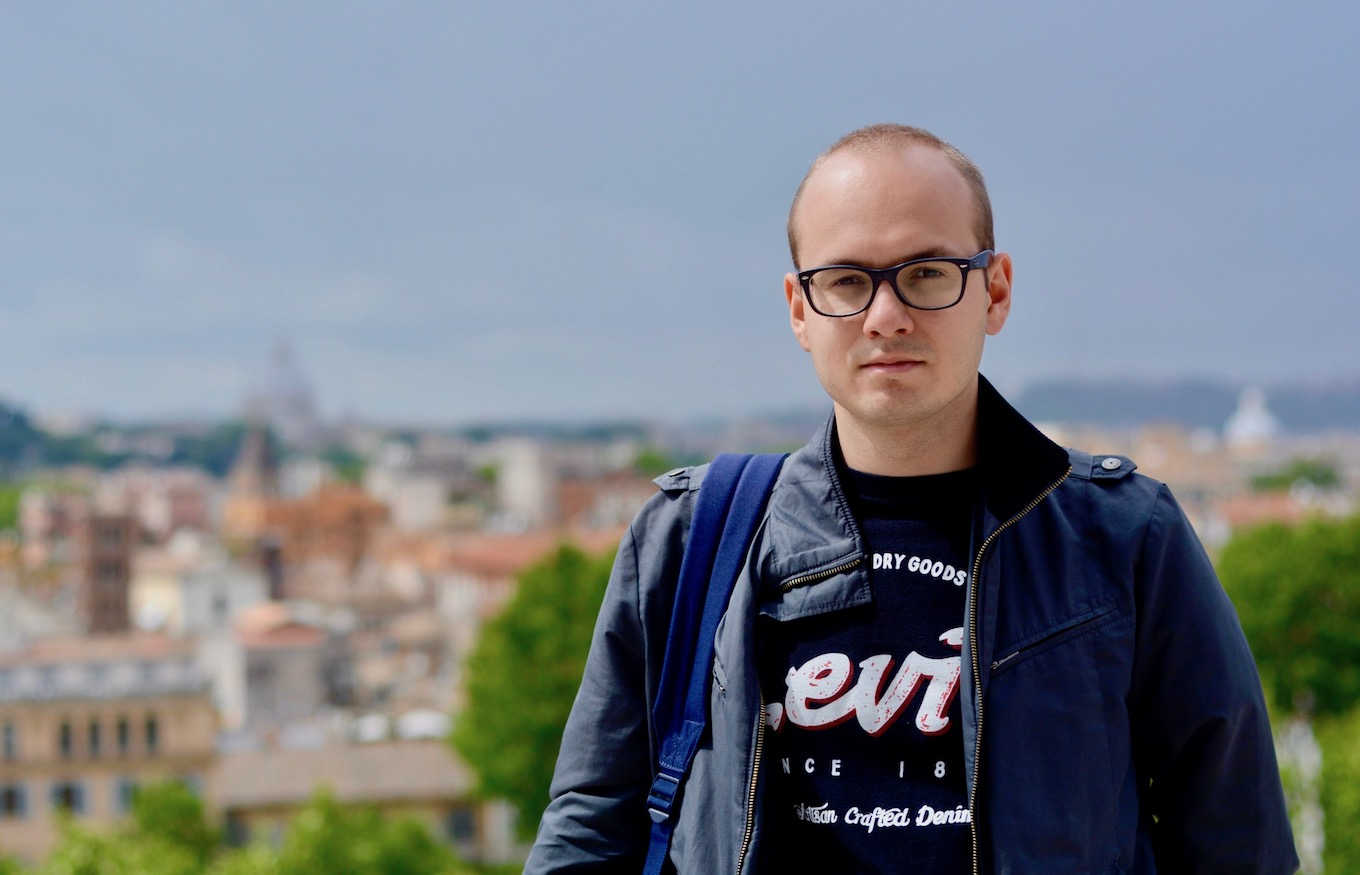
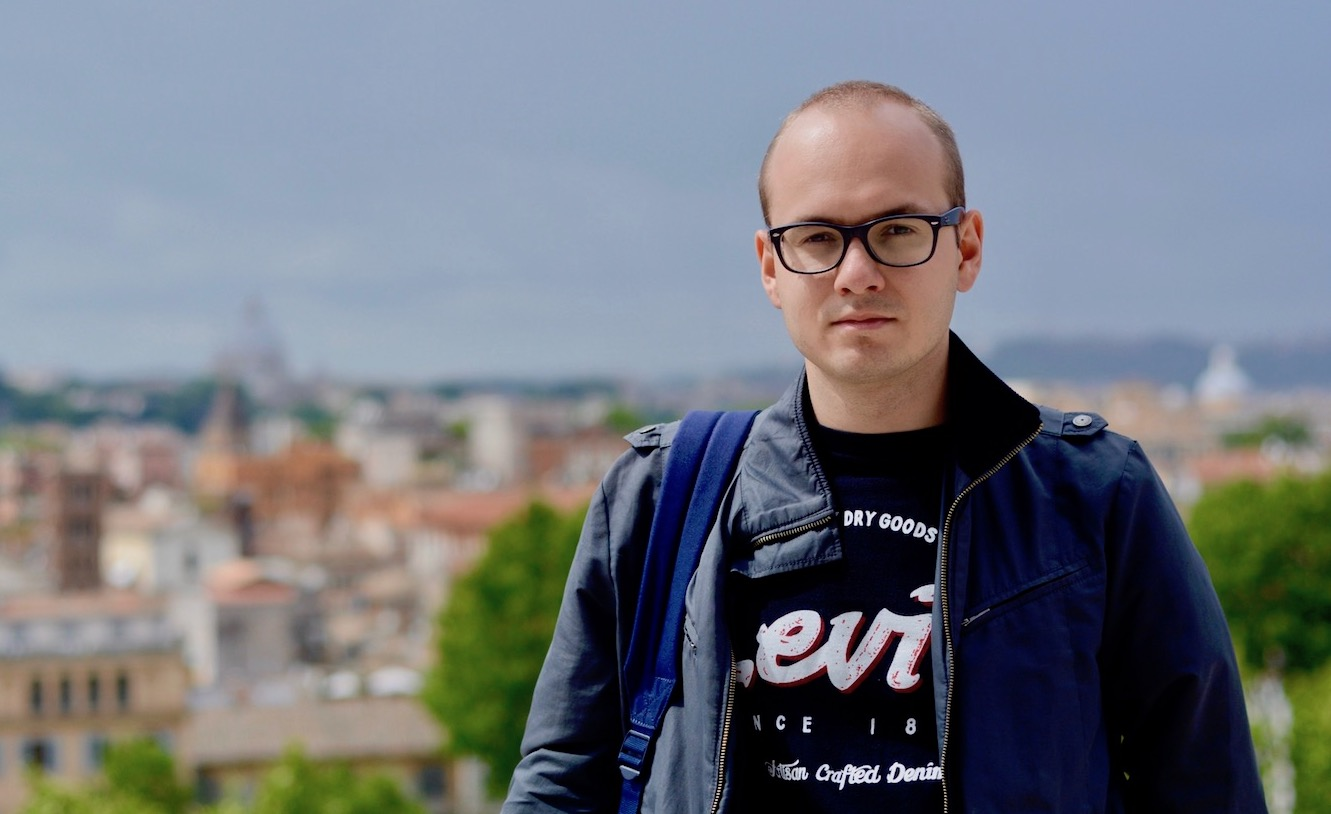
Add more stuff to About page

diff --git a/about/index.html b/about/index.html
@@ -26,6 +26,10 @@ layout: default
 
 <p><a href="https://kean.github.io/nuke">Nuke</a> is used by thousands of apps and is widely recognized on GitHub, earning more than 4000 stars. A popular website <a href="www.raywenderlich.com">www.raywenderlich.com</a> has two tutorials on Nuke. GitHub named Nuke 7 one of the best releases in May 2018. Nuke was on the list of top trending frameworks on GitHub a number of times.</p>
 
+<div class="FullscreenImage">
+<img src="{{ site.url }}/images/about/about_01.png">
+</div>
+
 </div> <!--home!-->
 
 </main>
